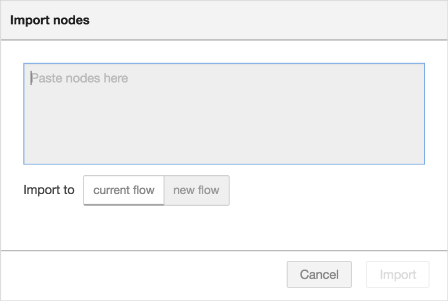
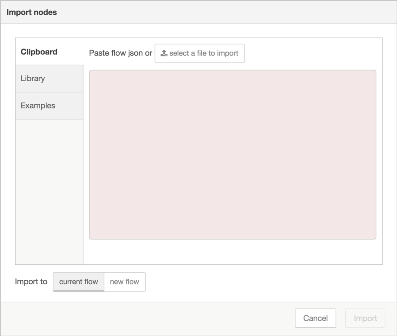
оновлення редактор

diff --git a/base/1_2.md b/base/1_2.md
@@ -4,6 +4,8 @@
 
 ## Редактор NODE-RED 
 
+[Джерело](https://nodered.org/docs/user-guide/editor/)
+
 Редактор складається з таких 4 компонентів (рис.1.1):
 
 -   у верхній частині міститься заголовок, що містить кнопку розгортання, головне меню, і якщо користувач пройшов автентифікацію, меню користувача.
@@ -15,6 +17,8 @@
 -   праворуч знаходиться бічна панель (**sidebar**)
 
 Компоненти редактора
+
+![](media/editor-default.png)
 
 ![pic](media/1_1.png)
 
@@ -55,6 +59,8 @@ height="20"}
 
 Рис.1.5. Вкладки потоку
 
+Примітка. Термін "потік" також використовується для неофіційного опису одного набору підключених вузлів. Таким чином, потік (вкладка) може містити кілька потоків (набори з'єднаних вузлів).
+
 Щоб додати новий потік натисніть кнопку `+` що знаходиться на верхній панелі (рис.1.5)
 
 Щоб змінити властивості потоку двічі натисніть на його вкладці у верхній панелі. Відкриється діалогове вікно Flow Properties (рис.1.6).
@@ -63,9 +69,13 @@ height="20"}
 
 Рис.1.6. Редагування властивостей потоку
 
-У діалоговому вікні може бути встановлена назва (name) та опис (description) потоку. Для форматування опису може використовувати синтаксис [Markdown](https://uk.wikipedia.org/wiki/Markdown). Опис з\'явиться у бічній панелі. Для відключення або включення потоків можна використовувати властивість Status.
+У діалоговому вікні може бути встановлена назва (name) та опис (description) потоку. Для форматування опису може використовувати синтаксис [Markdown](https://pupenasan.github.io/ProgIngContrSystems/%D0%9B%D0%B5%D0%BA%D1%86/MarkDown.html). Опис з\'явиться у бічній панелі. Для відключення або включення потоків можна використовувати властивість Enable. Відключені потоки моужть редагуватися, але не виконуються. 
 
 Щоб видалити потік, натисніть кнопку «Delete» у діалоговому вікні Flow Properties.
+
+Повний перелік потоків доступний через кнопку переліку.
+
+![](media/list_flows.png)
 
 #### Вузли (Nodes)
 
@@ -73,7 +83,7 @@ height="20"}
 
 -   Перетягуванням їх з [палітри](#палітра-palette),
 
--   Використовуючи [діалогове вікно швидкого додавання](https://nodered.org/docs/user-guide/editor/workspace/nodes#quick-add-dialog),
+-   Використовуючи діалогове вікно швидкого додавання
 
 -   Імпортуючи з бібліотеки чи буферу обміну.
 
@@ -95,7 +105,7 @@ height="20"}
 
 ##### Діалог швидкого додавання
 
-Діалогове вікно швидкого додавання - це простий спосіб додати вузол до робочої області, без необхідності перетягувати її з палітри. Діалогове вікно відкривається шляхом утримування  Ctrl або Command разом з натисканням (лівий клік миші) в робочі області (рис.1.9).
+Діалогове вікно швидкого додавання - це простий спосіб додати вузол до робочої області, без необхідності перетягувати її з палітри. Діалогове вікно відкривається шляхом утримування  Ctrl (або Command) разом з натисканням (лівий клік миші) в робочі області (рис.1.9).
 
 ![](media/1_9.png)
 
@@ -109,17 +119,25 @@ height="20"}
 
 Конфігурація вузла може бути відредагована подвійним кліком по вузлу чи натисканням клавіші Enter коли вузол в робочій області має фокус. Якщо вибрано декілька вузлів, редагуватися почне *перший* з них.
 
-Діалогове вікно редагування вузла має два окремих розділи: властивості (properties) та налаштувань (settings). У розділі властивостей відображається форма редагування (рис.1.10 ліворуч), специфічна для конкретного типу вузла. У розділі налаштувань відображаються загальні параметри, які можна встановити на всіх вузлах. Включаючи мітки спеціального порту, а також іконку для вузла.
+Діалогове вікно редагування вузла має три окремих розділи: властивості (properties), опис (Description) та зовнішній вигляд (Appearance) .  
 
 ![](media/1_10.png)
 
-рис.1.10 Діалог редагування вузла - розділи властивостей (ліворуч) та налаштувань (праворуч)
+рис.1.10 Діалог редагування вузла.
+
+У розділі властивостей (properties) відображається форма редагування (рис.1.10 ліворуч), специфічна для конкретного типу вузла. 
+
+У розділі опису (Description) вноситься документація по конкретному екземпляру вузла у форматі Markdown. Ця документація буде видима на інформаційному вікні правої бокової панелі, коли вузол буде видимий. 
+
+У розділі зовнішнього вигляду (Appearance) налаштовуються відображення вузла, зокрема необхідність відображення назви вузла та іконка, а також позначення його входів та виходів.
 
 При натисканні на піктограму бачимо засіб вибору значків вузла, який можна використовувати для вибору іконки вузла зі списку всіх доступних іконок.
 
 ![](media/1_11.png)
 
 рис.1.11 Набір іконок для вузла
+
+Кожен вузол може бути відключений/включений опцією "Enable". Якщо вузол відключено, він не буде створений в середовищі виконання при розгортанні.
 
 ##### Конфігураційні вузли
 
@@ -131,13 +149,15 @@ height="20"}
 
 рис.1.12.Додавання вузла конфігурації
 
-Натиснувши кнопку поруч із полем вибору, відкриється діалогове вікно редагування для вибраного вузла або додано новий екземпляр (рис.1.13).
+Натиснувши кнопку поруч із полем вибору, відкриється діалогове вікно редагування для вибраного вузла або додається новий екземпляр (рис.1.13).
 
 ![](media/1_13.png).
 
 рис.1.13.Вікно редагування вузла конфігурації
 
-У діалоговому вікні редагування конфігураційного вузла є лише розділ властивостей вузла, оскільки вузол конфігурації не має піктограм або портів для встановлення міток. У нижній частині діалогового вікна вказується, скільки вузлів використовує цей конфігураційний вузол. Вона також містить поле вибору для означення області застосування конфігураційного вузла. Обсяг визначає те, який поточний вузол конфігурації доступний. За замовчуванням він доступний для всіх потоків, але вікно вибору може бути використане для того, щоб зробити його локальним лише для одного потоку. Бічна панель конфігурації вузлів може використовуватись для керування всіма конфігураційними вузлами.
+У діалоговому вікні редагування конфігураційного вузла є лише розділи властивостей та опису вузла, оскільки вузол конфігурації не має піктограм або портів для встановлення міток. У нижній частині діалогового вікна вказується, скільки вузлів використовує цей конфігураційний вузол. Вона також містить поле вибору для означення області застосування конфігураційного вузла. Обсяг визначає те, який поточний вузол конфігурації доступний. За замовчуванням він доступний для всіх потоків, але вікно вибору може бути використане для того, щоб зробити його локальним лише для одного потоку. 
+
+Для керування всіма конфігураційними вузлами може використовуватись [бічна панель конфігурації вузлів](#конфігураційні-вузли-configuration-nodes)
 
 #### З'єднання (Wires)
 
@@ -147,7 +167,7 @@ height="20"}
 
 рис.1.14. Формування з'єднання між вузлами.
 
-Альтернативно можна створити з'єднання шляхом утримання клавіші Ctrl/Command і натискання/відпускання лівою кнопкою миші на порт вузла, а потім натиснув на пункт призначення.Якщо   Ctrl/Command залишається утримуваним, а безпосередньо провідний вузол призначення має вихідний порт, тоді з цього порту запускається новий дріт. Це дозволяє швидко з'єднуватися багатьом вузлам разом. Це також можна поєднати з діалогом швидкого додавання, яке спрацьовує  Ctrl / Command-Click   на робочому місці, для швидкої вставки нових вузлів і вони вже будуть підключені до попередніх вузлів потоку.
+Альтернативно можна створити з'єднання шляхом утримання клавіші Ctrl/Command і натискання/відпускання лівою кнопкою миші на порт вузла, а потім натиснув на пункт призначення. Якщо   Ctrl/Command залишається утримуваним, а безпосередньо провідний вузол призначення має вихідний порт, тоді з цього порту запускається новий дріт. Це дозволяє швидко з'єднуватися багатьом вузлам разом. Це також можна поєднати з діалогом швидкого додавання, яке спрацьовує  Ctrl / Command-Click   на робочому місці, для швидкої вставки нових вузлів і вони вже будуть підключені до попередніх вузлів потоку.
 
 Якщо вузол із вхідним та вихідним портом перетягнений до середньої точки дроту, дріт прийме вигляд штрихової лінії. При відпусканні він автоматично вставляється в потік в цій точці (рис.1.15).
 
@@ -158,6 +178,34 @@ height="20"}
 Щоб від\'єднати дріт від порту, виберіть дріт, натисніть на нього і потримайте клавішу Shift. Після цього дріт відключається від порту і може бути скинутий на інший порт. Якщо відпустити кнопку над робочою панеллю, дріт буде видалено. Якщо до порту є декілька дротів, підключених до нього і жоден з них не буде виділений, коли натискається   Shiftt  всі дроти почнуть рухатися.
 
 Щоб видалити дріт, спочатку виберіть його, натиснувши на нього, а потім натисніть кнопку  delete
+
+#### Групи (Groups)
+
+*Починаючи з Node-RED 1.1.0*
+
+Вузли можуть бути об'єднані разом, щоб утворити групу. Потім вони можуть бути переміщені або скопійовані як єдиний об’єкт у редакторі.
+
+Групи можуть надати колір межі та фону, а також додаткову мітку.
+
+![](media/groups.png)
+
+Щоб створити групу, виберіть вузли та виберіть у меню опцію "Groups -> Group selection".
+
+Властивості групи можна відредагувати, двічі клацнувши на групі, або натиснувши `Enter` , коли робоча область має фокус і група обрана.
+
+Налаштування вузлу має дві вкладки Properties (властивості) та Description (опис). У властивостях можна налаштувати кольори та ім'я групи.   
+
+![](media/group_prop.png)
+
+
+
+Вузли можна додати до наявної групи, перетягнувши їх у групу. Це працює лише для додавання одного вузла за раз.
+
+Можна об'єднати кілька вибраних груп в єдину групу. Виберіть усі групи та вузли для об’єднання в одну групу. Потім виберіть у меню опцію "Групи -> Об'єднання вибраних".
+
+Щоб розгрупувати вузли, виберіть групу, а потім виберіть у меню опцію "‘Groups -> Ungroup selection".
+
+Щоб видалити вузол із групи, виберіть вузол, а потім виберіть у меню опцію "Groups -> Remove from group".
 
 #### Під-потоки (Subflows)
 
@@ -195,13 +243,32 @@ height="20"}
 
 Входи та виходи під-потоку представлені сірими квадратними вузлами, які можуть бути підключені до потоку. Панель інструментів надає можливість додавання та видалення цих вузлів. Як і в звичайних потоках у вузлів, може бути не більше одного вводу та багато виходів, за необхідності.
 
-Кнопка 'edit properties' відкриває вікно властивостей під-потоку (рис.1.19). Як і у діалоговому вікні властивостей потоку, тут можна вказати назву та опис під-потоку. Можна також встановити категорію під-потоку, або шляхом вибору з однієї з існуючих категорій або додати нову.
+Додатково до під-потоку можна добавити вихід `status` що може бути використаний ля оновлення статусу підпотоку.
+
+Кнопка 'edit properties' відкриває вікно властивостей під-потоку (рис.1.19). Як і у діалоговому вікні властивостей потоку, тут можна вказати назву, відображення та опис під-потоку. Можна також встановити категорію під-потоку, або шляхом вибору з однієї з існуючих категорій або додати нову.
 
 ![](media/1_19.png)
 
 рис.1.19. Вікно редагування властивостей під-потоку
 
-#### Вибір вузла 
+Вкладка "Properties" діалогового вікна редагування може використовуватися для означення набору властивостей, які потім можна налаштувати для кожного екземпляру підпотоку. Потім властивості піддаються впливу змінних середовища в підпотоці.
+
+Кожен запис у таблиці властивостей можна розширити, щоб налаштувати його відображення під час редагування екземпляру підпотоку. На вкладці "UI Preview" подано попередній перегляд того, як вони виглядатимуть.
+
+![](media/env_var1.png)
+
+На вкладці Appearance можна:
+
+- вказати категорію палітри, де буде відображатися підпотік
+- вибрати, чи відображатиметься мітка вузла
+
+- змінити колір вузла
+- змінити піктограму вузла
+- надати спеціальні мітки для портів.
+
+Кнопку "delete subflow" на панелі інструментів підпотоку можна використовувати для видалення підпотоку та *всіх* його екземплярів.
+
+#### Вибір вузлів та потоків
 
 Вузол вибирається при натисканні на ньому. Це призведе до скасування вибору будь-якого іншого елемента. Бічна панель інформації буде оновлюватися, щоб відобразити властивості вузла та текст довідки для його типу. Якщо  при натисканні на вузол тримається Ctrl  або Command , він буде доданий до поточного вибору (або видалений, якщо він вже був обраний). Якщо при натисканні на вузол утримується Shift , він вибере цей вузол та всі інші вузли, до якого той підключений. Дріт (з'єднання) вибирається при натисканні на ньому. На відміну від вузлів, можна вибрати лише одне з'єднання за один раз.
 
@@ -211,37 +278,56 @@ height="20"}
 
 рис. 1.20.Вибір декількох вузлів за допомогою lasso
 
-Щоб вибрати всі вузли потоку переконайтеся що робоча область має фокус, а потім натисніть  Ctrl/Command-a.
+Щоб вибрати всі вузли потоку переконайтеся що робоча область має фокус, а потім натисніть Ctrl/Command-a.
 
 Всі вузли та з'єднання, що попали в виділення підтримують копіювання/вирізання/вставка. Зверніть увагу, що дії використовують внутрішній буфер обміну, а не системний.
+
+Вибрати декілька потоків у редакторі можна, натиснувши клавішу  `Ctrl/Command`  при натисканні на її вкладку. Після вибору їх можна видалити, скопіювати або експортувати так само, як і будь-які інші вибрані вузли.
+
+Редактор підтримує стандартні дії копіювання/вирізання/вставки. Зверніть увагу, що вони використовують внутрішній буфер обміну, а не системний буфер обміну.
 
 #### Імпорт та експорт потоків
 
 Потоки можна імпортувати та експортувати з редактора, використовуючи формат JSON, що дозволяє дуже легко обмінюватися потоками з іншими редакторами.
 
+Діалогове вікно Імпорту можна використовувати для імпорту потоку за допомогою таких методів:
+
+- вставлення в потік JSON потоку безпосередньо,
+- завантаження файлу потоку з JSON,
+- вибір локальної бібліотеки потоків,
+- вибір потоків прикладів, передбачених встановленими вузлами.
+
+У всіх випадках діалогове вікно пропонує можливість імпортувати вузли до поточного потоку або створити для них новий потік.
+
 Щоб імпортувати потік, відкрийте діалогове вікно «Import»-\> "Clipboard", вставте json та натисніть «Import to Current flow». Кнопка 'Import' активна лише тоді, коли у діалогове вікно вставлений правильний JSON. У діалоговому вікні також є можливість імпортувати вузли в поточний потік або створити для них новий потік (рис.1.21)
 
 ![](media/1_21.png)
 
-рис. 1.21.Діалог імпорту потоків
+рис. 1.21.Діалог імпорту 
 
-Вікно експорту може бути використано для копіювання потоку json з редактора.
+Діалогове вікно "Експорт" можна використовувати для копіювання потоку json з редактора такими методами:
 
-Можна експортувати виділені вузли, поточний потік (включаючи його вузли) або повну конфігурацію потоку (рис.1.22).
+- копіювання JSON в буфер обміну системи,
+- завантаження JSON у вигляді файлу,
+- збереження його в локальній бібліотеці потоків.
+
+Він може експортувати або вибрані вузли, поточний потік (включаючи його вузол вкладки), або повну конфігурацію потоку.
+
+Він пропонує можливість експортувати компактний або відформатований JSON. Компактний варіант генерує один рядок JSON без пробілів. Відформатований варіант JSON відформатований у декілька рядків із повним відступом - що може бути простішим для читання.
 
 ![](media/1_22.png)
 
-рис.1.22. Діалог Export Flows
-
-У діалоговому вікні експорту є можливість вибрати експорт в компактний або відформатований JSON. Опція «compact» означує створення єдиного рядку JSON без пробілів. Опція «formatted» робить JSON форматованим по декільком рядкам з повним відступом, що є зручним для читання.
+рис.1.22. Діалог Export 
 
 #### Пошук потоків
 
-Для пошуку вузлів усередині робочої області, включаючи конфігураційні вузли, може використовуватися діалогове вікно пошуку. Редактор індексує всі властивості вузлів, тому його можна використовувати для пошуку вузла за його ідентифікатором, типом, ім\'ям або будь-якою іншою властивістю. Вибір вузла у списку результатів покаже той вузол у редакторі (рис.1.24).
+Для пошуку вузлів усередині робочої області, включаючи конфігураційні вузли, може використовуватися діалогове вікно пошуку в інформаційній панелі. Редактор індексує всі властивості вузлів, тому його можна використовувати для пошуку вузла за його ідентифікатором, типом, ім\'ям або будь-якою іншою властивістю. Вибір вузла у списку результатів покаже той вузол у редакторі (рис.1.24).
 
 ![](media/1_24.png)
 
 рис.1.24 Діалог пошуку
+
+Синатаксис пошуку навеений за [цим посиланням](https://nodered.org/docs/user-guide/editor/workspace/search#search-syntax).
 
 ### Палітра (Palette)
 
@@ -281,6 +367,11 @@ height="20"}
 
 Панель відкриється якщо натиснути на значок в заголовку бічної панелі або вибравши їх з випадаючого списку(рис.1.29).
 
+- Information -- переглянути інформацію про вузли та їх допомогу
+- Debug -- перегляд повідомлень, переданих вузлам Debug 
+- Configuration Nodes -- керування конфігураційними вузлами 
+- Context data -- перегляд вмісту контекстів
+
 Деякі вузли додають власні панелі бічної панелі, наприклад **node-red-dashboard**
 
 ![](media/1_29.png)
@@ -289,7 +380,11 @@ height="20"}
 
 Можна змінити розмір бічної панелі, перетягнувши її край робочої області. Якщо край перетягнути близько до правого краю, бічна панель буде прихована. Це може бути показано знову, вибравши опцію 'Show sidebar' в меню View menu, чи через комбінацію Ctrl/⌘-Space.
 
-#### Бічна панель: Інформація (Information)
+#### Інформація (Information)
+
+Починаючи з Node-RED 1.1.0 на цій бічній панелі відображається інформація про потоки. Сюди входить контурний вигляд усіх потоків та вузлів, а також деталі поточного вибору. Через цю вкладку можна керувати debug та inject.
+
+![](media/info_flowctrl.png)
 
 На бічній панелі Information відображається більше інформації про поточний вибраний вузол, зокрема:
 
@@ -303,7 +398,15 @@ height="20"}
 
 рис.1.30. Information Sidebar
 
-#### Бічна панель: Debug messages
+#### Help
+
+У попередніх версіях Node-RED текст довідки для обраного на даний момент вузла відображався на бічній панелі Інформація. Введена у Node-RED 1.1.0, бічна панель довідки забезпечує доступ до вмісту довідки для всіх вузлів редактора - не лише поточного вибору. У верхньому розділі міститься повний вміст, який можна перемикати за допомогою кнопки.
+
+
+
+![](media/help.png)
+
+#### Debug messages
 
 На бічній панелі  Debug (рис.1.31) відображаються повідомлення, передані вузлам Debug в потоці, а також певні повідомлення журналу середовища виконання (runtime).
 
@@ -331,7 +434,7 @@ height="20"}
 
 Кнопка ![](media/pic1.png) в нижньому колонтитулі бічної панелі можна використовувати для відкриття окремого вікна веб-переглядача, що містить бічну панель Debug.
 
-#### Бічна панель: Конфігураційні вузли (Configuration nodes)
+#### Конфігураційні вузли (Configuration nodes)
 
 Бічна панель конфігураційних вузлів (Configuration nodes) надає список всіх конфігураційних вузлів в одному екрані. Кожен вузол показує його тип і мітку, а також підрахунок того, скільки вузлів поточного потоку використовує цей вузол конфігурації (рис.1.33).
 
@@ -351,6 +454,12 @@ height="20"}
 
 Панель розділена на три частини, по одному для кожного типу контексту (рис.1.34). Розділ \'Node\' показує контекст поточного виділеного вузла. Він не відображає вміст автоматично, а вимагає, щоб користувач натиснув кнопку оновлення, щоб завантажити його. Розділ \'Flow\' показує контекст поточного потоку. Він автоматично оновлюється кожного разу, коли потік змінюється в основній робочій області. У розділі «Global» відображається глобальний контекст і завантажується кожного разу, коли завантажується редактор.
 
-Для всіх трьох областей, щоб побачити зміни, потрібно натиснути відповідну кнопку оновлення. Наведіть курсор миші на будь-яке ім\'я контекстної властивості для відображення кнопки оновлення, яка може бути використана для оновлення лише одного значення. Наведіть курсор на значення контекстного ресурсу для відображення кнопки, яка може скопіювати його вміст у системний буфер обміну. Значення буде перетворено в JSON, тому не всі значення можуть бути скопійовані.
+У розділах «Node » та «Flow » встановлено прапорець біля кнопки оновлення, щоб увімкнути автоматичне оновлення вмісту кожного разу, коли вибраний вузол чи потік змінюються.
+
+Наведення миші на будь-яке ім'я властивості контексту покаже кнопку оновлення, яку можна використовувати для оновлення лише цього значення.
+
+Наведення курсор на значення властивості контексту покаже кнопку для копіювання його вмісту в системний буфер обміну. Значення буде перетворене в JSON, тому не всі значення можна скопіювати.
+
+
 
 [Проекти ->](1_3.md)<span class="invis"> </span>
